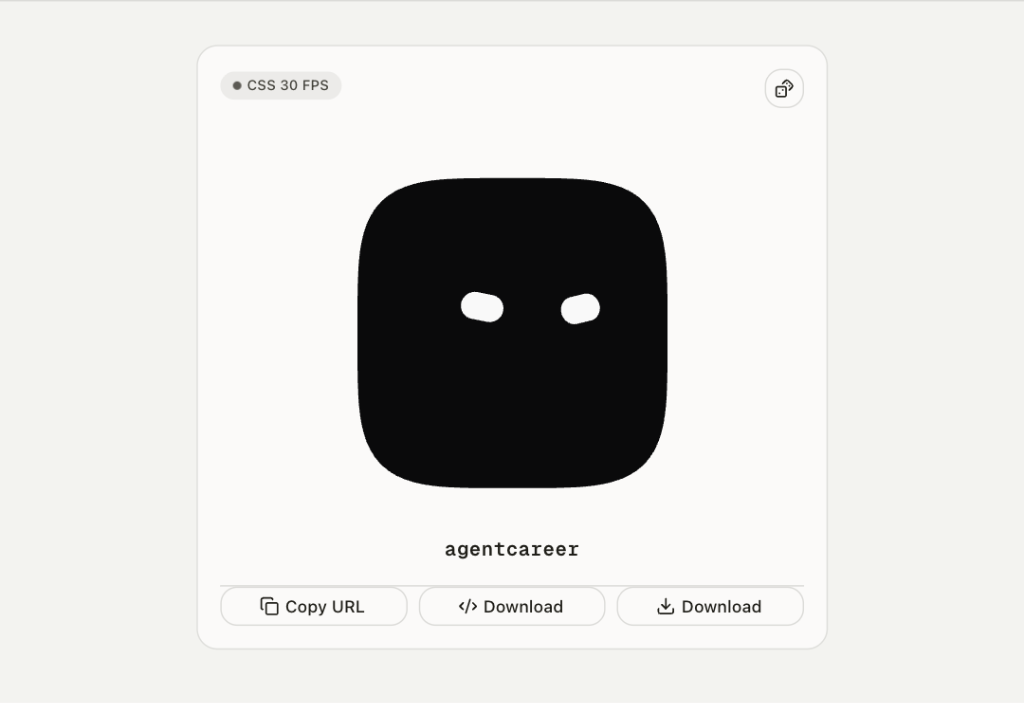
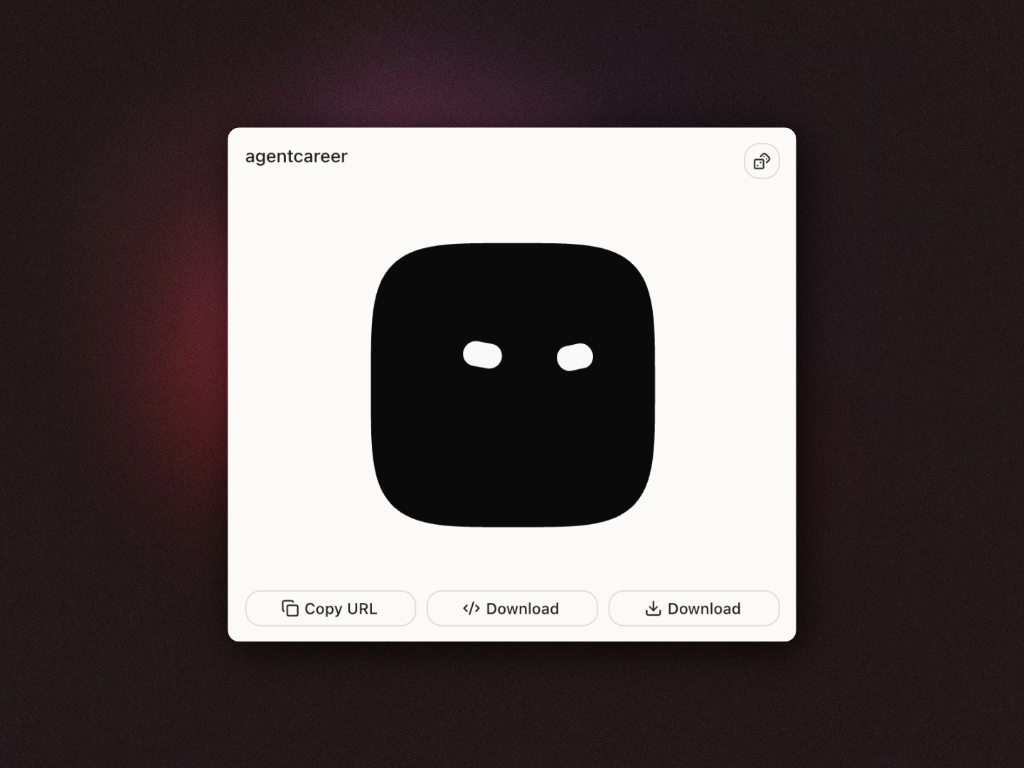
feat: cleaner UI and updated demo image

diff --git a/src/components/avatar-preview.tsx b/src/components/avatar-preview.tsx
@@ -4,7 +4,6 @@ import { Check, Code2, Copy, Dices, Download } from "lucide-react";
 import Image from "next/image";
 import { useMemo, useState } from "react";
 
-import { Badge } from "@/components/ui/badge";
 import { Button } from "@/components/ui/button";
 import {
   Card,
@@ -107,16 +106,7 @@ export const AvatarPreview = () => {
   return (
     <Card className="w-full max-w-md">
       <CardHeader>
-        <CardTitle>
-          {animated ? (
-            <Badge variant="secondary">
-              <span className="bg-primary size-1.5 animate-pulse rounded-full" />
-              CSS 30 FPS
-            </Badge>
-          ) : (
-            <Badge variant="outline">Static SVG</Badge>
-          )}
-        </CardTitle>
+        <CardTitle>{seed}</CardTitle>
         <CardAction>
           <Button
             variant="outline"
@@ -140,14 +130,10 @@ export const AvatarPreview = () => {
             className="size-full"
           />
         </div>
-
-        <div className="text-center font-mono text-sm font-semibold tracking-wide">
-          {seed}
-        </div>
       </CardContent>
 
       <CardFooter>
-        <div className="grid w-full grid-cols-3 gap-2 border-t">
+        <div className="grid w-full grid-cols-3 gap-2">
           <Button
             variant="outline"
             onClick={() => handleCopy(apiUrl, "quick-url")}
